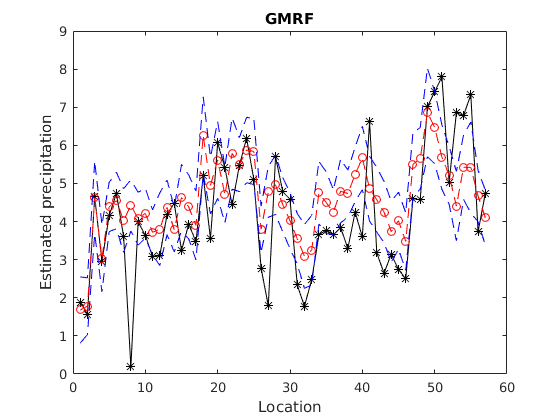
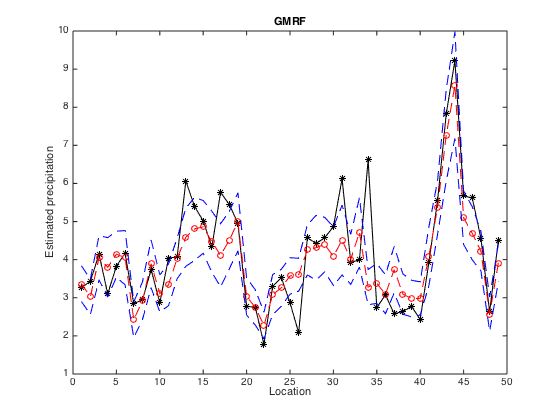
Updated project 2

Changed region(s): [[0.0607, 0.031, 0.9411, 0.9905]]

diff --git a/ha2/proj2_main.m b/ha2/proj2_main.m
@@ -34,7 +34,7 @@ disp('theta')
 theta
 disp('exp(theta)')
 exp(theta)
-H = gmrf_param_hessian(@(th) gmrf_negloglike_Gam(th,Y(Iobs),ABobs(Iobs,:),C, G, G2, 2), theta0);
+H = gmrf_param_hessian(@(th) gmrf_negloglike_Gam(th,Y(Iobs),ABobs(Iobs,:),C, G, G2, 2), theta);
 Hinv = inv(H);
 th_se = sqrt(diag(Hinv));
 disp('SE(exp(theta))');
@@ -89,42 +89,41 @@ ylabel('Estimated precipitation')
 title('GMRF')
 
 lgp = ABall*x_mode;
+
 figure,
 trisurf(mesh.T, mesh.loc(:,1), mesh.loc(:,2),  ...
         zeros(size(mesh.loc,1),1), lgp);
 hold on
-%scatter(mesh.loc_obs(:,1), mesh.loc_obs(:,2), 15, mesh.elevation_obs, ..., 
-%    'filled', 'markeredgecolor', 'k')
 plot(Border(:,1),Border(:,2),'-',...
   Border(1034:1078,1),Border(1034:1078,2),'-')
 view(0,90); shading interp; colorbar;
 hold off; axis tight
-%scatter(mesh.loc(:,1), mesh.loc(:,2), 15, lgp, ..., 
-%    'filled', 'markeredgecolor', 'k')
-%hold on
-%plot(Border(:,1),Border(:,2),'-',...
-%  Border(1034:1078,1),Border(1034:1078,2),'-')
-%colorbar; hold off; axis tight
+
 %calculate mean precipitation for mesh locations
 Y_mesh_gmrf = exp(ABall*(repmat(x_mode,1,100)+v));
 Y_mesh_gmrf_mean = mean(Y_mesh_gmrf,2);
 Y_mesh_gmrf_se = std(Y_mesh_gmrf,0,2);
+
 %plot the mesh predictions and standard error.
 figure,
-scatter(mesh.loc(:,1), mesh.loc(:,2), 15, Y_mesh_gmrf_mean, ..., 
-    'filled', 'markeredgecolor', 'k')
+trisurf(mesh.T, mesh.loc(:,1), mesh.loc(:,2),  ...
+        zeros(size(mesh.loc,1),1), Y_mesh_gmrf_mean);
 hold on
 plot(Border(:,1),Border(:,2),'-',...
   Border(1034:1078,1),Border(1034:1078,2),'-')
-colorbar; hold off; axis tight
+view(0,90); shading interp; colorbar;
+hold off; axis tight
+title('GMRF (mean)');
 
 figure,
-scatter(mesh.loc(:,1), mesh.loc(:,2), 15, Y_mesh_gmrf_se, ..., 
-    'filled', 'markeredgecolor', 'k')
+trisurf(mesh.T, mesh.loc(:,1), mesh.loc(:,2),  ...
+        zeros(size(mesh.loc,1),1), Y_mesh_gmrf_se);
 hold on
 plot(Border(:,1),Border(:,2),'-',...
   Border(1034:1078,1),Border(1034:1078,2),'-')
-colorbar; hold off; axis tight
+view(0,90); shading interp; colorbar;
+hold off; axis tight
+title('GMRF (SE)');
 
 %simulate x_mode from p(x|y,theta) (Gaussian approx) N(0,Q_xy^-1)
 x_mode_sim = repmat(x_mode,1,100) + v;
@@ -150,17 +149,23 @@ sim_y = gamrnd(b,zz/b);
 var_sim_y = var(sim_y,0,2);
 median_sim_y = median(sim_y,2);
 
+
 figure,
-scatter(mesh.loc(:,1), mesh.loc(:,2), 15, median_sim_y, ..., 
-    'filled', 'markeredgecolor', 'k')
+trisurf(mesh.T, mesh.loc(:,1), mesh.loc(:,2),  ...
+        zeros(size(mesh.loc,1),1), median_sim_y);
 hold on
 plot(Border(:,1),Border(:,2),'-',...
   Border(1034:1078,1),Border(1034:1078,2),'-')
-colorbar; hold off; axis tight
+view(0,90); shading interp; colorbar;
+hold off; axis tight
+title('Median prediction');
+
 figure,
-scatter(mesh.loc(:,1), mesh.loc(:,2), 15, sqrt(var_sim_y), ..., 
-    'filled', 'markeredgecolor', 'k')
+trisurf(mesh.T, mesh.loc(:,1), mesh.loc(:,2),  ...
+        zeros(size(mesh.loc,1),1), sqrt(var_sim_y));
 hold on
 plot(Border(:,1),Border(:,2),'-',...
   Border(1034:1078,1),Border(1034:1078,2),'-')
-colorbar; hold off; axis tight
+view(0,90); shading interp; colorbar;
+hold off; axis tight
+title('SE of the prediction');

diff --git a/ha2/proj2.tex b/ha2/proj2.tex
@@ -174,9 +174,9 @@ The estimated parameters $\hat \bbeta$ and their corresponding standard errors t
 \hline
 {\bf Parameter} & {\bf Estimate} & {\bf SE} \\
 \hline
-$\hat \beta_0$ & -10.8703 & 1.9788 \\
-$\hat \beta_1$ & -0.2430 & 0.0413 \\
-$\hat \beta_2$ & -0.2234 & 0.0429 \\
+$\hat \beta_0$ & -11.1884 & 1.9092 \\
+$\hat \beta_1$ & -0.2498 & 0.0398 \\
+$\hat \beta_2$ & -0.2234 & 0.0414 \\
 $\hat \beta_3$ & 0.0006 & 0.0001 \\
 \hline
 \end{tabular}
@@ -223,9 +223,9 @@ The parameter estimates $\hat \btheta$ are obtained by maximizing the log-poster
 \hline
 {\bf $\hat \btheta$} & {$\exp(\hat \btheta)$} & {\bf SE} (of $\exp(\hat \theta)$) \\
 \hline
-$\hat \theta_1 =  0.8585$ & $\hat \tau = 2.3595 $ & 1.0017 \\
-$\hat \theta_2 = -1.3448$ & $\hat \kappa^2 = 0.2606 $ &  1.0006 \\
-$\hat \theta_3 = 2.6496$ & $\hat b = 14.1485$ & 1.0005 \\
+$\hat \theta_1 =   -0.1440$ & $\hat \tau = 0.8659 $ & 1.3016 \\
+$\hat \theta_2 = -1.7081$ & $\hat \kappa^2 = 0.1812 $ &  3.0909 \\
+$\hat \theta_3 = 3.0951$ & $\hat b = 22.0903$ & 1.0735 \\
 \hline
 \end{tabular}
 \caption{GMRF parameter estimate and standard errors.}
@@ -234,7 +234,7 @@ $\hat \theta_3 = 2.6496$ & $\hat b = 14.1485$ & 1.0005 \\
 
 The reconstruction of the latent field ($\txmode$) is extracted at the last iteration of the maximization of the log-likelihood (minmization of the negative log-likelihood). The expected precipitation at the validation locations is given by $\bE(\hat \by_v) = \exp(\btA_v \txmode)$. The variance (and the standard error, SE) of the latent field (log precipitation) is calculated by simulating (100 times) from a Gaussian distribution with precision matrix $\bQ_{x|y}$. The following steps are used to achieve this:
 \begin{enumerate}
- \item Compute the Cholesky-factorization $\bQ_{x|y} = R\cdot R^T$.
+ \item Compute the Cholesky-factorization $\bQ_{x|y} = R^T\cdot R$.
  \item Sample $z \in N(0,\mathbb{I})$.
  \item Solve for $v$ such that $R^T v = z$. Then, $v \in N(0,\bQ_{x|y}^{-1})$.
 \end{enumerate} 
@@ -248,7 +248,7 @@ For the validation locations, the expected precipitation and the corresponding c
 
 
 The same procedure is applied to determine the mean precipitation at all the locations in the mesh (2884 locations). The estimated mean precipitation and the corresponding standard error are plotted in figure~\ref{fig:mesh}
-\begin{figure}[ht]
+\begin{figure}[H]
 \centering
   \subfloat[]{{\includegraphics[width=5cm, height=4cm]{mesh_mean_obs.png} }}%
   \qquad
